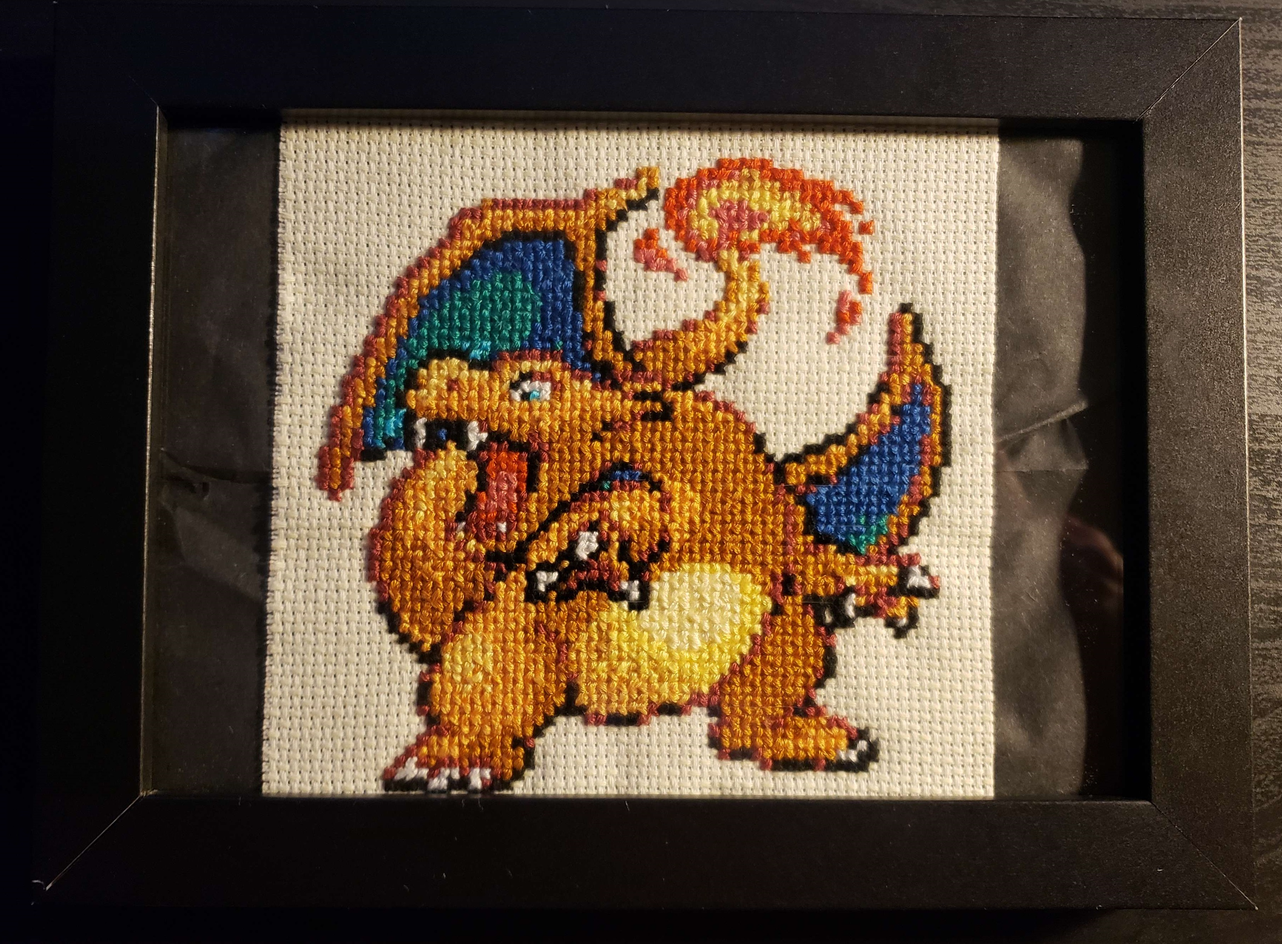
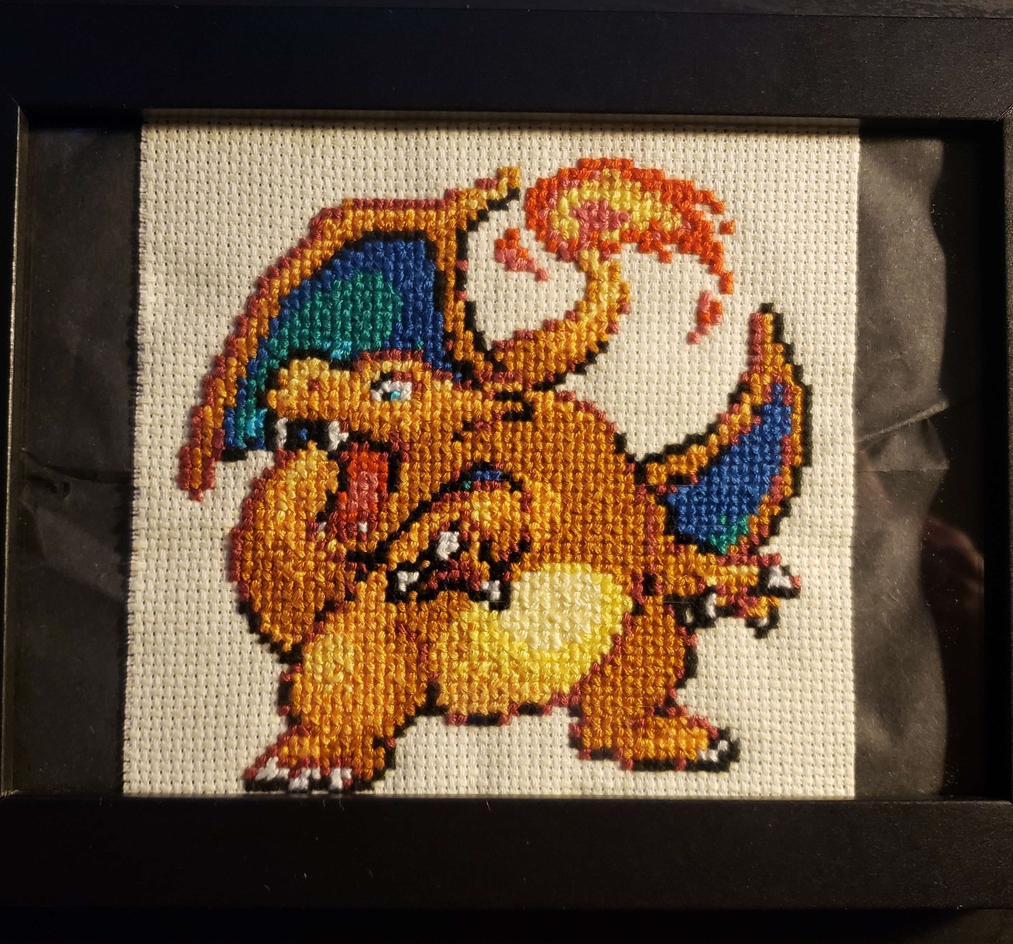
changed image display

diff --git a/aboutMe.html b/aboutMe.html
@@ -21,25 +21,30 @@
 		<h1>About Me</h1>
 	</div>
 	<div class="row">
-		<embed src="resume.pdf" width="800" height="700">
+			<object data='resume.pdf' width="800" height="700">
+				<p>Your browser doesn't support PDFs!</p>
+				<p><a href="resume.pdf">Download Instead</a></p>
+			</object>
 	</div>
 	<div class="row">
-		<div>
-			<h2>Things I am interested in </h2>
-			<p>In my free time, I enjoy playing video games, reading, cross stitching, and baking.</p>
-		</div>
+		<h2>Things I am interested in </h2>
+		<p>In my free time, I enjoy playing video games, reading, cross stitching, and baking.</p>
+	</div>
+	<div class="row">
 		<div>
 			<!--images of cross stitch designs here-->
 			<h2>
 				Some of my cross stitch projects
 			</h2>
 			<div class="column">
-				<img src="./images/flowers.jpg" alt="Cross stitch flowers" height="500">
+				<img src="./images/flowers.jpg" alt="Cross stitch flowers" width="65%">
 			</div>
 			<div class="column">
-				<img src="./images/charizard.jpg" alt="Cross stitch charizard" height="500">
+				<img src="./images/charizard.jpg" alt="Cross stitch charizard" width="65%">
 			</div>
 		</div>
+	</div>
+	<div class="row">
 		<div class="column">
 			<div class="favorites">
 			<h3>Some of my favorite video games</h3>

diff --git a/css/style.css b/css/style.css
@@ -51,6 +51,7 @@ footer {
   text-align: left;
   border:#087908;
   border-radius: 5px;
+  overflow:auto;
 }
 .favorites {
   text-align: center;
@@ -60,6 +61,7 @@ footer {
   text-align: left;
 }
 .row {
+  display: grid;
   width: 100%;
   display: table;
   clear: both;
